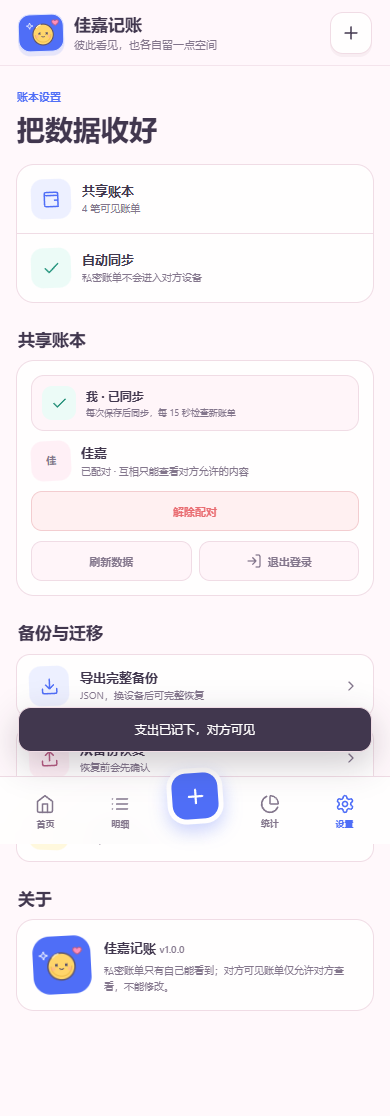
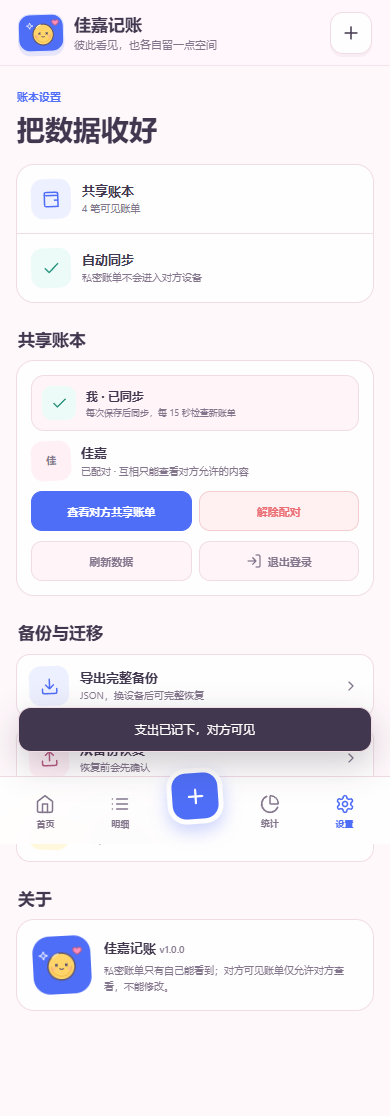
feat: add partner ledger view

Changed region(s): [[0.0615, 0.4265, 0.5538, 0.4875], [0.6462, 0.457, 0.7692, 0.4875]]

diff --git a/app.js b/app.js
@@ -40,6 +40,7 @@
     view: "home",
     month: startOfMonth(new Date()),
     filter: "all",
+    ownerFilter: "all",
     search: "",
     transactions: [],
     mode: "local",
@@ -102,7 +103,7 @@
       "recentList", "ledgerCount", "ledgerSearch", "ledgerFilter", "ledgerList",
       "statsDonut", "statsTotal", "statsIncome", "statsBalance", "categoryRank",
       "trendChart", "recordSummary", "storageSummary", "exportJsonButton",
-      "importButton", "importInput", "exportCsvButton", "headerAddButton",
+      "importButton", "importInput", "exportCsvButton", "headerAddButton", "ownerFilter",
       "tabAddButton", "sheetLayer", "sheetBackdrop", "sheetClose", "sheetEyebrow",
       "sheetTitle", "transactionForm", "typeSwitch", "amountInput", "categoryGrid",
       "accountChips", "dateInput", "noteInput", "deleteButton", "saveButton", "toast",
@@ -182,6 +183,13 @@
       elements.ledgerFilter.querySelectorAll("button").forEach((item) => {
         item.classList.toggle("is-on", item === button);
       });
+      renderLedger();
+    });
+
+    elements.ownerFilter.addEventListener("click", (event) => {
+      const button = event.target.closest("[data-owner-filter]");
+      if (!button) return;
+      state.ownerFilter = button.dataset.ownerFilter;
       renderLedger();
     });
 
@@ -398,6 +406,11 @@
     const query = state.search;
     const items = sortTransactions(state.transactions).filter((item) => {
       if (state.filter !== "all" && item.type !== state.filter) return false;
+      if (state.mode === "cloud" && state.ownerFilter !== "all") {
+        const own = isOwnTransaction(item);
+        if (state.ownerFilter === "mine" && !own) return false;
+        if (state.ownerFilter === "partner" && own) return false;
+      }
       if (!query) return true;
       const category = getCategory(item.categoryId);
       return [
@@ -409,9 +422,17 @@
     });
 
     elements.ledgerCount.textContent = `${items.length} 笔`;
+    elements.ownerFilter.hidden = state.mode !== "cloud";
+    elements.ownerFilter.querySelectorAll("button").forEach((button) => {
+      button.classList.toggle("is-on", button.dataset.ownerFilter === state.ownerFilter);
+    });
     elements.ledgerList.innerHTML = items.length
       ? groupTransactions(items)
-      : emptyState(query ? "没有找到相符的账单" : "账本还是空的", query ? "换个关键词试试" : "记一笔后，明细会出现在这里");
+      : state.mode === "cloud" && state.ownerFilter === "partner"
+        ? emptyState("对方还没有共享账单", "对方需要把账单设为“对方可见”")
+        : state.mode === "cloud" && state.ownerFilter === "mine"
+          ? emptyState("你还没有记账", "记一笔后，明细会出现在这里")
+          : emptyState(query ? "没有找到相符的账单" : "账本还是空的", query ? "换个关键词试试" : "记一笔后，明细会出现在这里");
   }
 
   function renderStats() {
@@ -573,11 +594,14 @@
     const partnerName = state.partner?.display_name || "对方";
     const partnerBlock = state.partner
       ? `
-        <div class="partner-strip">
+      <div class="partner-strip">
           <span class="partner-avatar">${escapeHtml(partnerName.slice(0, 1))}</span>
           <div><strong>${escapeHtml(partnerName)}</strong><span>已配对 · 互相只能查看对方允许的内容</span></div>
-        </div>
-        <button class="cloud-button danger" type="button" data-cloud-action="unpair">解除配对</button>`
+      </div>
+      <div class="cloud-actions">
+        <button class="cloud-button primary" type="button" data-cloud-action="view-partner">查看对方共享账单</button>
+        <button class="cloud-button danger" type="button" data-cloud-action="unpair">解除配对</button>
+      </div>`
       : `
         <div class="pair-code">
           <span>把这组配对码发给她</span>
@@ -686,6 +710,12 @@
         return;
       }
 
+      if (action === "view-partner") {
+        state.ownerFilter = "partner";
+        setView("ledger");
+        return;
+      }
+
       if (action === "unpair") {
         if (!window.confirm("确认解除配对？解除后双方都不能再看到对方共享的账单。")) return;
         state.cloudBusy = true;
@@ -728,6 +758,7 @@
     state.cloudSession = null;
     state.profile = null;
     state.partner = null;
+    state.ownerFilter = "all";
     state.cloudOffline = false;
     state.transactions = db ? await dbGetAll() : [];
     renderAll();

diff --git a/index.html b/index.html
@@ -167,6 +167,11 @@
           <button type="button" data-filter="expense">支出</button>
           <button type="button" data-filter="income">收入</button>
         </div>
+        <div class="segmented owner-filter" id="ownerFilter" aria-label="账单来源" hidden>
+          <button class="is-on" type="button" data-owner-filter="all">双方</button>
+          <button type="button" data-owner-filter="mine">我的</button>
+          <button type="button" data-owner-filter="partner">对方</button>
+        </div>
         <div class="ledger-content" id="ledgerList"></div>
       </section>
 

diff --git a/sw.js b/sw.js
@@ -1,5 +1,5 @@
 /* 改动页面文件后同步提升 CACHE 版本，联网时会优先取新版本。 */
-const CACHE = "jiajia-ledger-v12";
+const CACHE = "jiajia-ledger-v13";
 const ASSETS = [
   "./",
   "./index.html",

diff --git a/styles.css b/styles.css
@@ -705,6 +705,10 @@ main {
   box-shadow: 0 2px 6px rgba(98, 70, 88, .08);
 }
 
+.owner-filter {
+  margin-top: 8px;
+}
+
 .compact-month {
   display: flex;
   align-items: center;

diff --git a/更新日志.md b/更新日志.md
@@ -8,6 +8,7 @@
 - 使用一次性测试邮箱验证真实注册接口：注册返回 HTTP 200，并立即获得登录会话。
 - 区分登录频率限制与邮件发送频率限制，连续登录失败时提示等待 5 分钟。
 - 将未识别的 `Login failed` 和网络连接错误转换为明确中文提示，并强制刷新离线缓存。
+- 明细页新增“双方 / 我的 / 对方”来源筛选，并在配对信息中增加“查看对方共享账单”入口。
 
 ## 2026-10-17 v1.1.0
 

diff --git a/README.md b/README.md
@@ -18,6 +18,7 @@
 - 对方可见账单只允许对方查看，不允许对方修改、删除或变更权限。
 - 私密账单由数据库行级权限拦截，不会同步到对方设备。
 - 首页和统计只汇总当前账号实际有权查看的账单。
+- 明细页可在“双方 / 我的 / 对方”之间切换，也可以从配对信息直接打开对方共享账本。
 
 ## 共享服务
 
